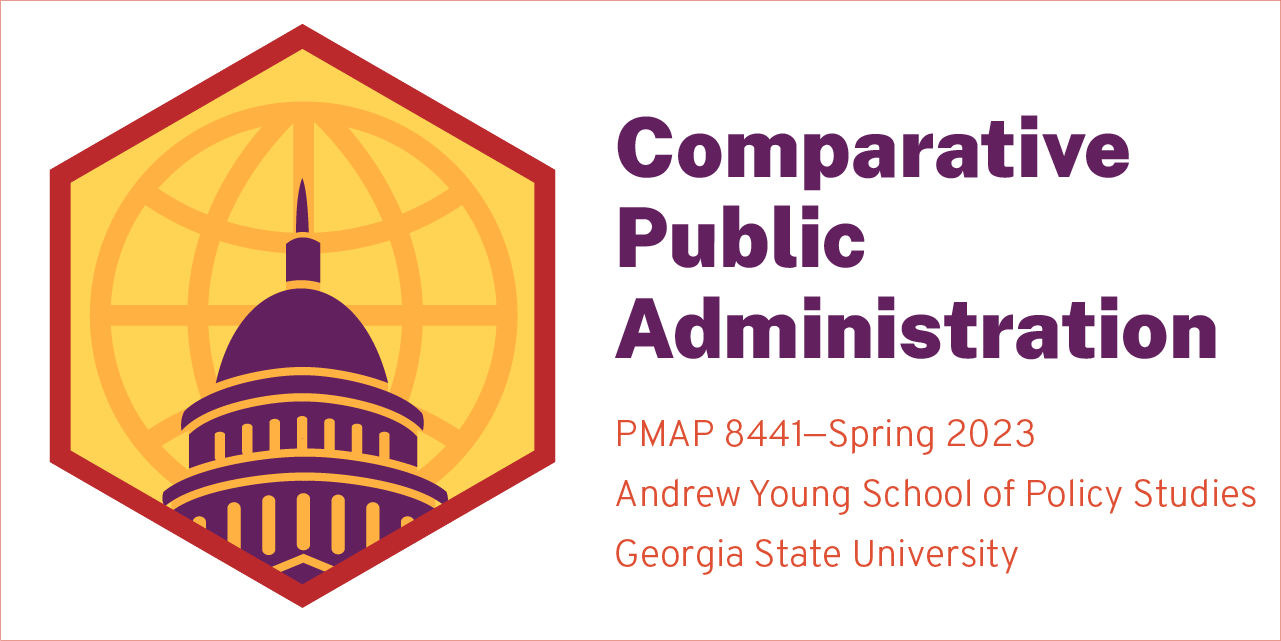
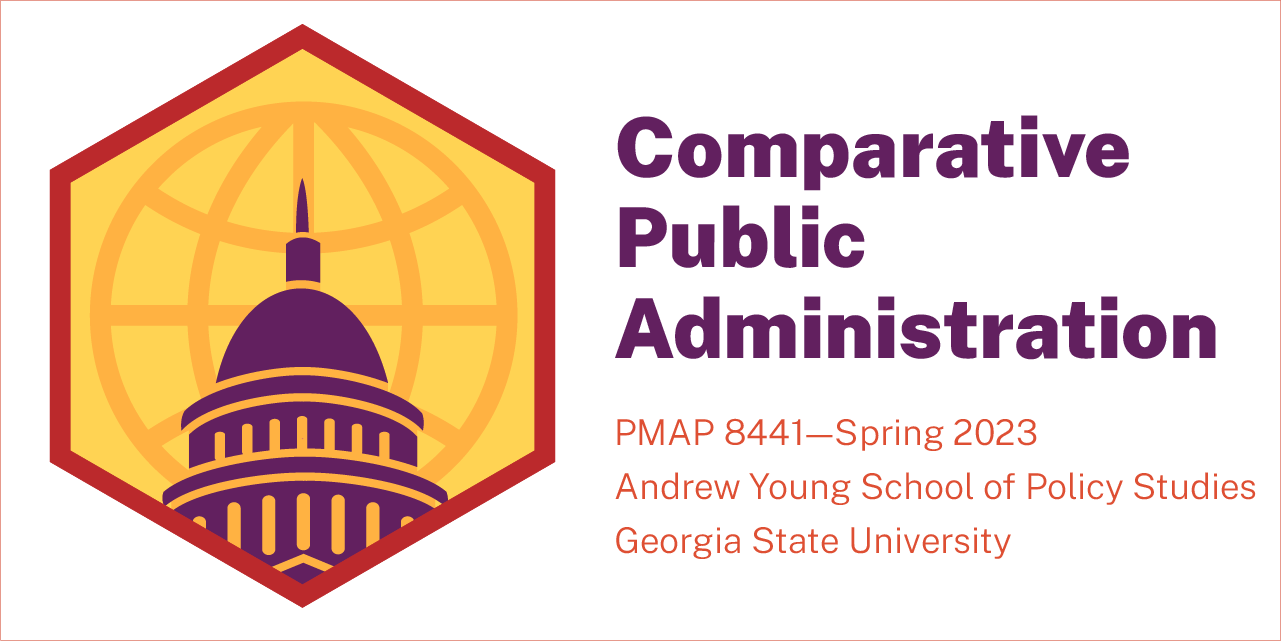
Add font and color details

Changed region(s): [[0.4684, 0.6552, 0.9992, 0.9048]]

diff --git a/README.md b/README.md
@@ -83,6 +83,30 @@ graph LR
   end
 ```
 
+## Fonts and colors
+
+The font used throughout the site is [Public
+Sans](https://public-sans.digital.gov/), an open source font developed
+as part of the General Services Administration’s
+[USWDS](https://designsystem.digital.gov/) (US Web Design System) for
+making accessible federal government websites.
+
+The colors for the site and hex logo come from the [Tam
+palette](https://github.com/BlakeRMills/MetBrewer#tam) in
+[MetBrewer](https://github.com/BlakeRMills/MetBrewer)
+(`MetBrewer::met.brewer("Tam")`):
+
+    #> ── Attaching packages ─────────────────────────────────────── tidyverse 1.3.2 ──
+    #> ✔ ggplot2 3.4.0      ✔ purrr   0.3.5 
+    #> ✔ tibble  3.1.8      ✔ dplyr   1.0.10
+    #> ✔ tidyr   1.2.1      ✔ stringr 1.5.0 
+    #> ✔ readr   2.1.2      ✔ forcats 0.5.2 
+    #> ── Conflicts ────────────────────────────────────────── tidyverse_conflicts() ──
+    #> ✖ dplyr::filter() masks stats::filter()
+    #> ✖ dplyr::lag()    masks stats::lag()
+
+<img src="README_files/figure-commonmark/show-tam-1.png" width="768" />
+
 ## Licenses
 
 **Text and figures:** All prose and images are licensed under Creative
